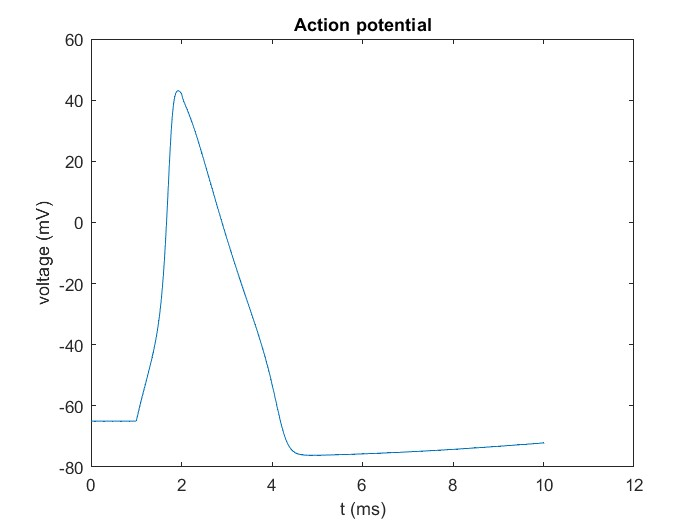
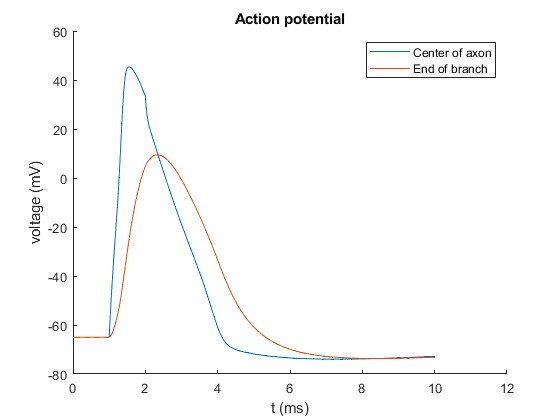
Expanded acpot/morph examples, removed delete section example.

diff --git a/example_acpot.m b/example_acpot.m
@@ -1,5 +1,5 @@
 % Proof of concept for running NEURON in MATLAB:
-% Generate activation function.
+% Generate action potential.
 
 % Initialization.
 clear;
@@ -9,7 +9,15 @@ n.reset_sections();
 
 % Make axon.
 axon = neuron.Section("axon");
+axon.change_nseg(3);
+axon.set_diameter(50);
 axon.insert_mechanism("hh");
+
+% Connect branch.
+branch = neuron.Section("branch1");
+branch.set_diameter(10);
+branch.length = 1000;
+branch.connect(0, axon, 1);
 n.topology();
 
 % Track time with Vector t_vec.
@@ -17,16 +25,19 @@ t_vec = neuron.Vector();
 t = n.ref("t");
 t_vec.record(t);
 
-% Track voltage with Vector v_vec.
-v_vec = neuron.Vector();
-v = axon.ref("v", 0.5);
-v_vec.record(v);
+% Track voltage at two points.
+v1_vec = neuron.Vector();
+v1 = axon.ref("v", 0.5);
+v1_vec.record(v1);
+v2_vec = neuron.Vector();
+v2 = branch.ref("v", 1);
+v2_vec.record(v2);
 
-% Insert current.
-iclamp = neuron.IClamp(axon, 0.5);
+% Insert current at start of axon.
+iclamp = neuron.IClamp(axon, 0);
 iclamp.del = 1;
 iclamp.dur = 1;
-iclamp.amp = 100;
+iclamp.amp = 50;
 
 % Run simulation.
 n.finitialize(-65);
@@ -35,7 +46,12 @@ while n.t < 10
 end
 
 % Plot results.
-plot(t_vec, v_vec);
+figure;
+hold on;
+plot(t_vec, v1_vec);
+plot(t_vec, v2_vec);
+legend('Center of axon', 'End of branch')
 title("Action potential");
 xlabel("t (ms)");
 ylabel("voltage (mV)");
+hold off;

diff --git a/example_morph.m b/example_morph.m
@@ -50,3 +50,8 @@ end
 
 % Print info.
 branch1.info();
+
+% We are unhappy with branch2, so let's remove it.
+n.topology();
+delete(branch2);
+n.topology();
